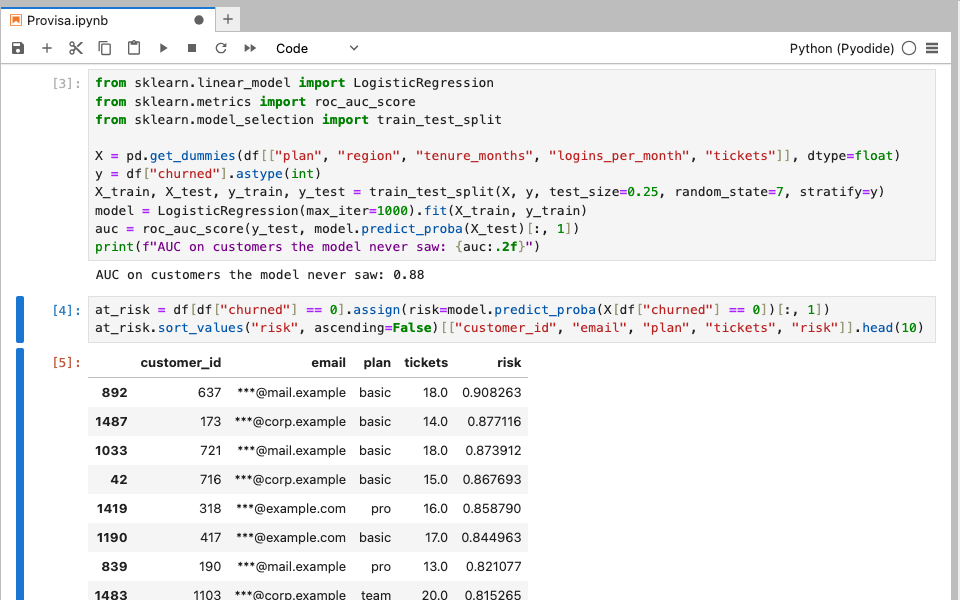
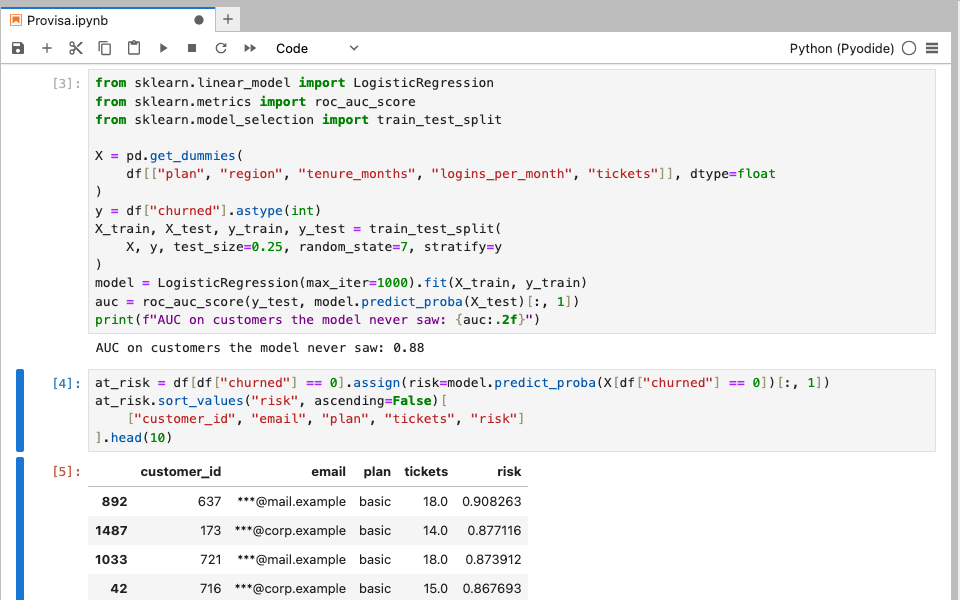
fix(notebook): the notebook takes the app's colour scheme only once JupyterLab is restored and its splash gone
followScheme ran as soon as the frame exposed the app: before its plugins were active,
apputils:change-theme was not registered yet (an unhandled rejection), and within the 200 ms
JupyterLab takes to remove its startup splash, the theme's own splash scheduled a second removal
of the same node (NotFoundError: removeChild, inside jlab_core). It now waits for app.restored
and for the splash to leave the app's document. The churn card is shot again from the notebook
as shipped (its cells as formatted at commit).

diff --git a/provisa-ui/src/__tests__/liteBridge.test.ts b/provisa-ui/src/__tests__/liteBridge.test.ts
@@ -10,6 +10,7 @@
 
 import { describe, it, expect, vi, afterEach } from "vitest";
 import {
+  LITE_SPLASH_ID,
   LITE_THEMES,
   NOTEBOOK_STARTER,
   followScheme,
@@ -40,6 +41,7 @@ function kernel() {
 function app(kernels: KernelConnection[], current: unknown = null) {
   const slots: Array<() => void> = [];
   const lite: LiteApp = {
+    restored: Promise.resolve(),
     commands: { execute: vi.fn(async () => true) },
     shell: {
       widgets: () => kernels.map((k) => ({ sessionContext: { session: { kernel: k } } })),
@@ -148,10 +150,41 @@ describe("seedNewNotebooks", () => {
 });
 
 describe("followScheme", () => {
+  it("waits for the app's startup splash to be gone before asking for the theme", async () => {
+    // JupyterLab removes its splash 200 ms after it is restored; a theme loaded in between shows
+    // the splash again and has it removed twice, which throws inside the app.
+    const { lite } = app([]);
+    const splash = document.createElement("div");
+    splash.id = LITE_SPLASH_ID;
+    document.body.appendChild(splash);
+    const following = followScheme(lite, "light", document);
+    await new Promise((resolve) => setTimeout(resolve, 0));
+    expect(lite.commands.execute).not.toHaveBeenCalled();
+    splash.remove();
+    await following;
+    expect(lite.commands.execute).toHaveBeenCalledWith("apputils:change-theme", {
+      theme: LITE_THEMES.light,
+    });
+  });
+
+  it("waits for the app to be restored before asking for the theme", async () => {
+    const { lite } = app([]);
+    let restore = () => {};
+    lite.restored = new Promise<void>((resolve) => (restore = resolve));
+    const following = followScheme(lite, "dark", document);
+    await Promise.resolve();
+    expect(lite.commands.execute).not.toHaveBeenCalled();
+    restore();
+    await following;
+    expect(lite.commands.execute).toHaveBeenCalledWith("apputils:change-theme", {
+      theme: LITE_THEMES.dark,
+    });
+  });
+
   it("puts the embedded app in the app's colour scheme with JupyterLab's theme command", async () => {
     const { lite } = app([]);
-    await followScheme(lite, "dark");
-    await followScheme(lite, "light");
+    await followScheme(lite, "dark", document);
+    await followScheme(lite, "light", document);
     expect(vi.mocked(lite.commands.execute).mock.calls).toEqual([
       ["apputils:change-theme", { theme: LITE_THEMES.dark }],
       ["apputils:change-theme", { theme: LITE_THEMES.light }],

diff --git a/provisa-ui/src/dataScience/liteBridge.ts b/provisa-ui/src/dataScience/liteBridge.ts
@@ -36,6 +36,9 @@ interface SharedCell {
 
 /** The parts of the JupyterLite app the page uses. */
 export interface LiteApp {
+  /** Resolves once every plugin is active and the layout restored: before it, a plugin's command
+   * (the theme manager's apputils:change-theme) may not be registered yet. */
+  restored: Promise<void>;
   commands: { execute(id: string, args?: Record<string, unknown>): Promise<unknown> };
   shell: {
     widgets(area: "main"): Iterable<unknown>;
@@ -116,8 +119,34 @@ export function startLiteBridge(
 /** JupyterLab's themes for the app's colour schemes. */
 export const LITE_THEMES = { light: "JupyterLab Light", dark: "JupyterLab Dark" } as const;
 
-/** The embedded app in the app's colour scheme (JupyterLab's own theme command). */
-export function followScheme(app: LiteApp, scheme: keyof typeof LITE_THEMES): Promise<unknown> {
+/** JupyterLab's splash screen, in the embedded app's document while it starts or loads a theme. */
+export const LITE_SPLASH_ID = "jupyterlab-splash";
+
+/** Resolves once `doc` holds no splash screen. JupyterLab removes its startup splash 200 ms after
+ * the app is restored; a theme loaded meanwhile shows the same splash again and schedules a second
+ * removal of it, which throws (removeChild of a node no longer a child). */
+function splashGone(doc: Document): Promise<void> {
+  return new Promise((resolve) => {
+    if (doc.getElementById(LITE_SPLASH_ID) === null) return resolve();
+    const watch = new MutationObserver(() => {
+      if (doc.getElementById(LITE_SPLASH_ID) !== null) return;
+      watch.disconnect();
+      resolve();
+    });
+    watch.observe(doc.body, { childList: true });
+  });
+}
+
+/** The embedded app in the app's colour scheme (JupyterLab's own theme command), once the app is
+ * restored -- the page has the app as soon as its frame exposes it, before its plugins are active
+ * -- and its startup splash is gone from `doc`, the app's document. */
+export async function followScheme(
+  app: LiteApp,
+  scheme: keyof typeof LITE_THEMES,
+  doc: Document,
+): Promise<unknown> {
+  await app.restored;
+  await splashGone(doc);
   return app.commands.execute("apputils:change-theme", { theme: LITE_THEMES[scheme] });
 }
 

diff --git a/provisa-ui/src/__tests__/DataSciencePage.demoNotebook.test.tsx b/provisa-ui/src/__tests__/DataSciencePage.demoNotebook.test.tsx
@@ -29,7 +29,7 @@ import { DataScienceHost, type MakeWorker } from "../pages/DataSciencePage";
 import { NamedDemoContext, NO_NAMED_DEMO } from "../context/NamedDemoContext";
 
 const CELLS = ["import provisa_client\nprovisa_client.sign_in()", "model.score(X, y)"];
-const APP = { shell: {}, commands: {} };
+const APP = { restored: Promise.resolve(), shell: {}, commands: {} };
 
 function page(notebook: string[], state?: Record<string, unknown>) {
   const make = (() => ({ postMessage: vi.fn(), terminate: vi.fn() })) as unknown as MakeWorker;

diff --git a/provisa-ui/src/pages/DataSciencePage.tsx b/provisa-ui/src/pages/DataSciencePage.tsx
@@ -306,7 +306,8 @@ function NotebookTab({
 
   // The notebook wears the app's colour scheme, and changes with it.
   useEffect(() => {
-    if (app !== null) void followScheme(app, scheme);
+    const doc = frame.current?.contentDocument;
+    if (app !== null && doc) void followScheme(app, scheme, doc);
   }, [app, scheme]);
 
   useEffect(() => {
